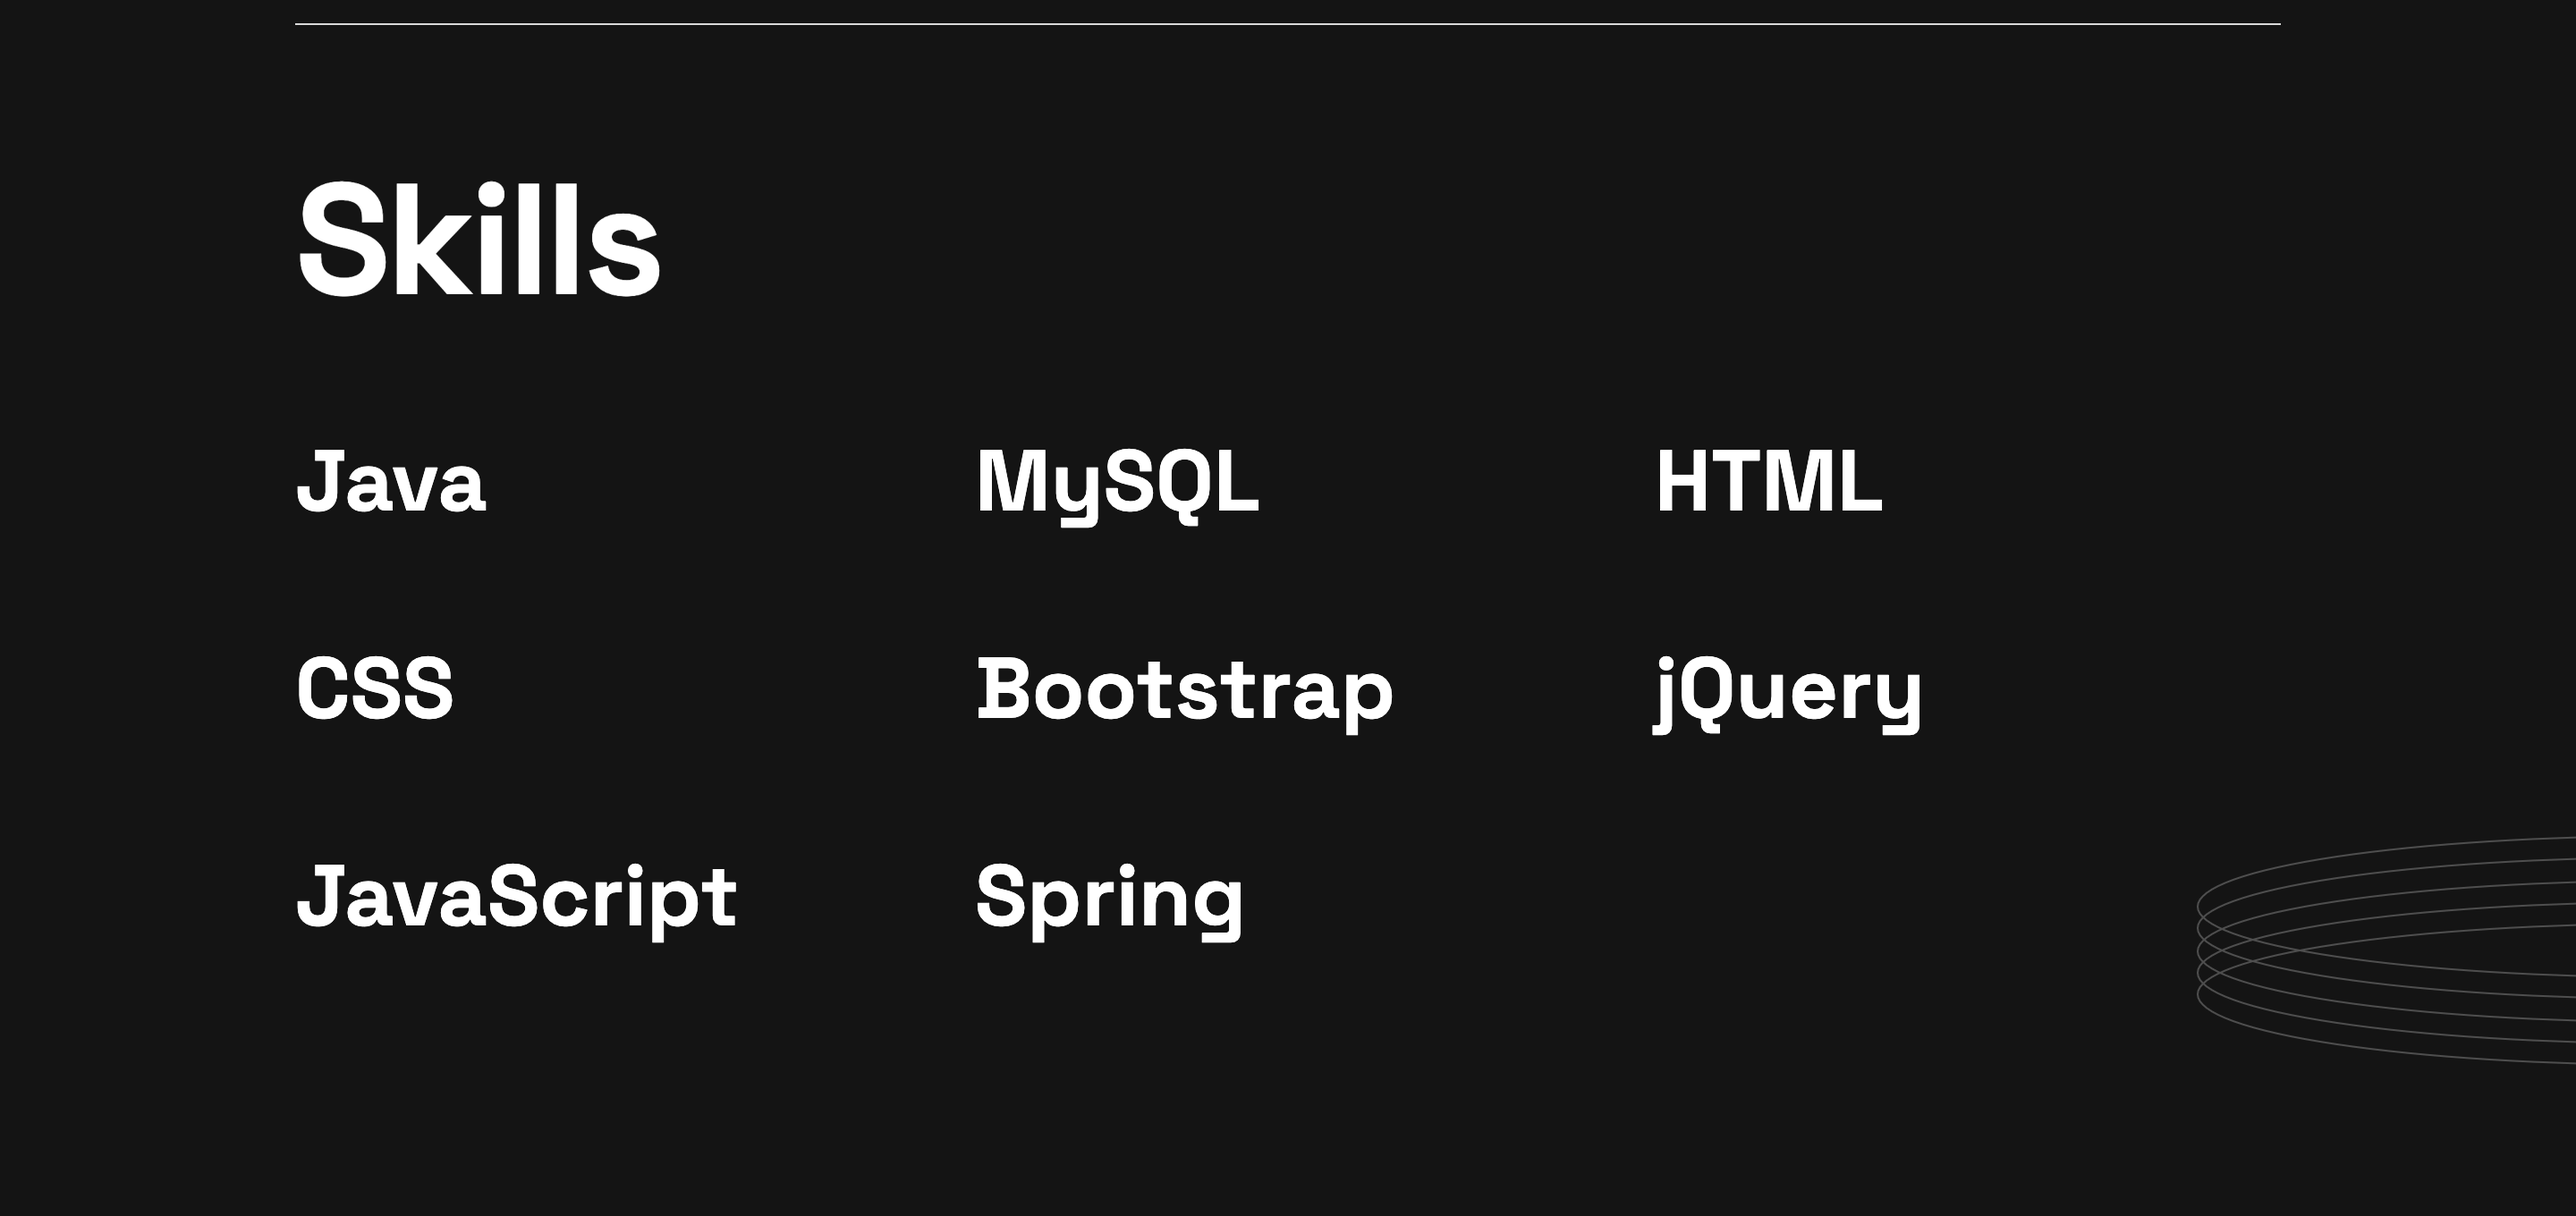
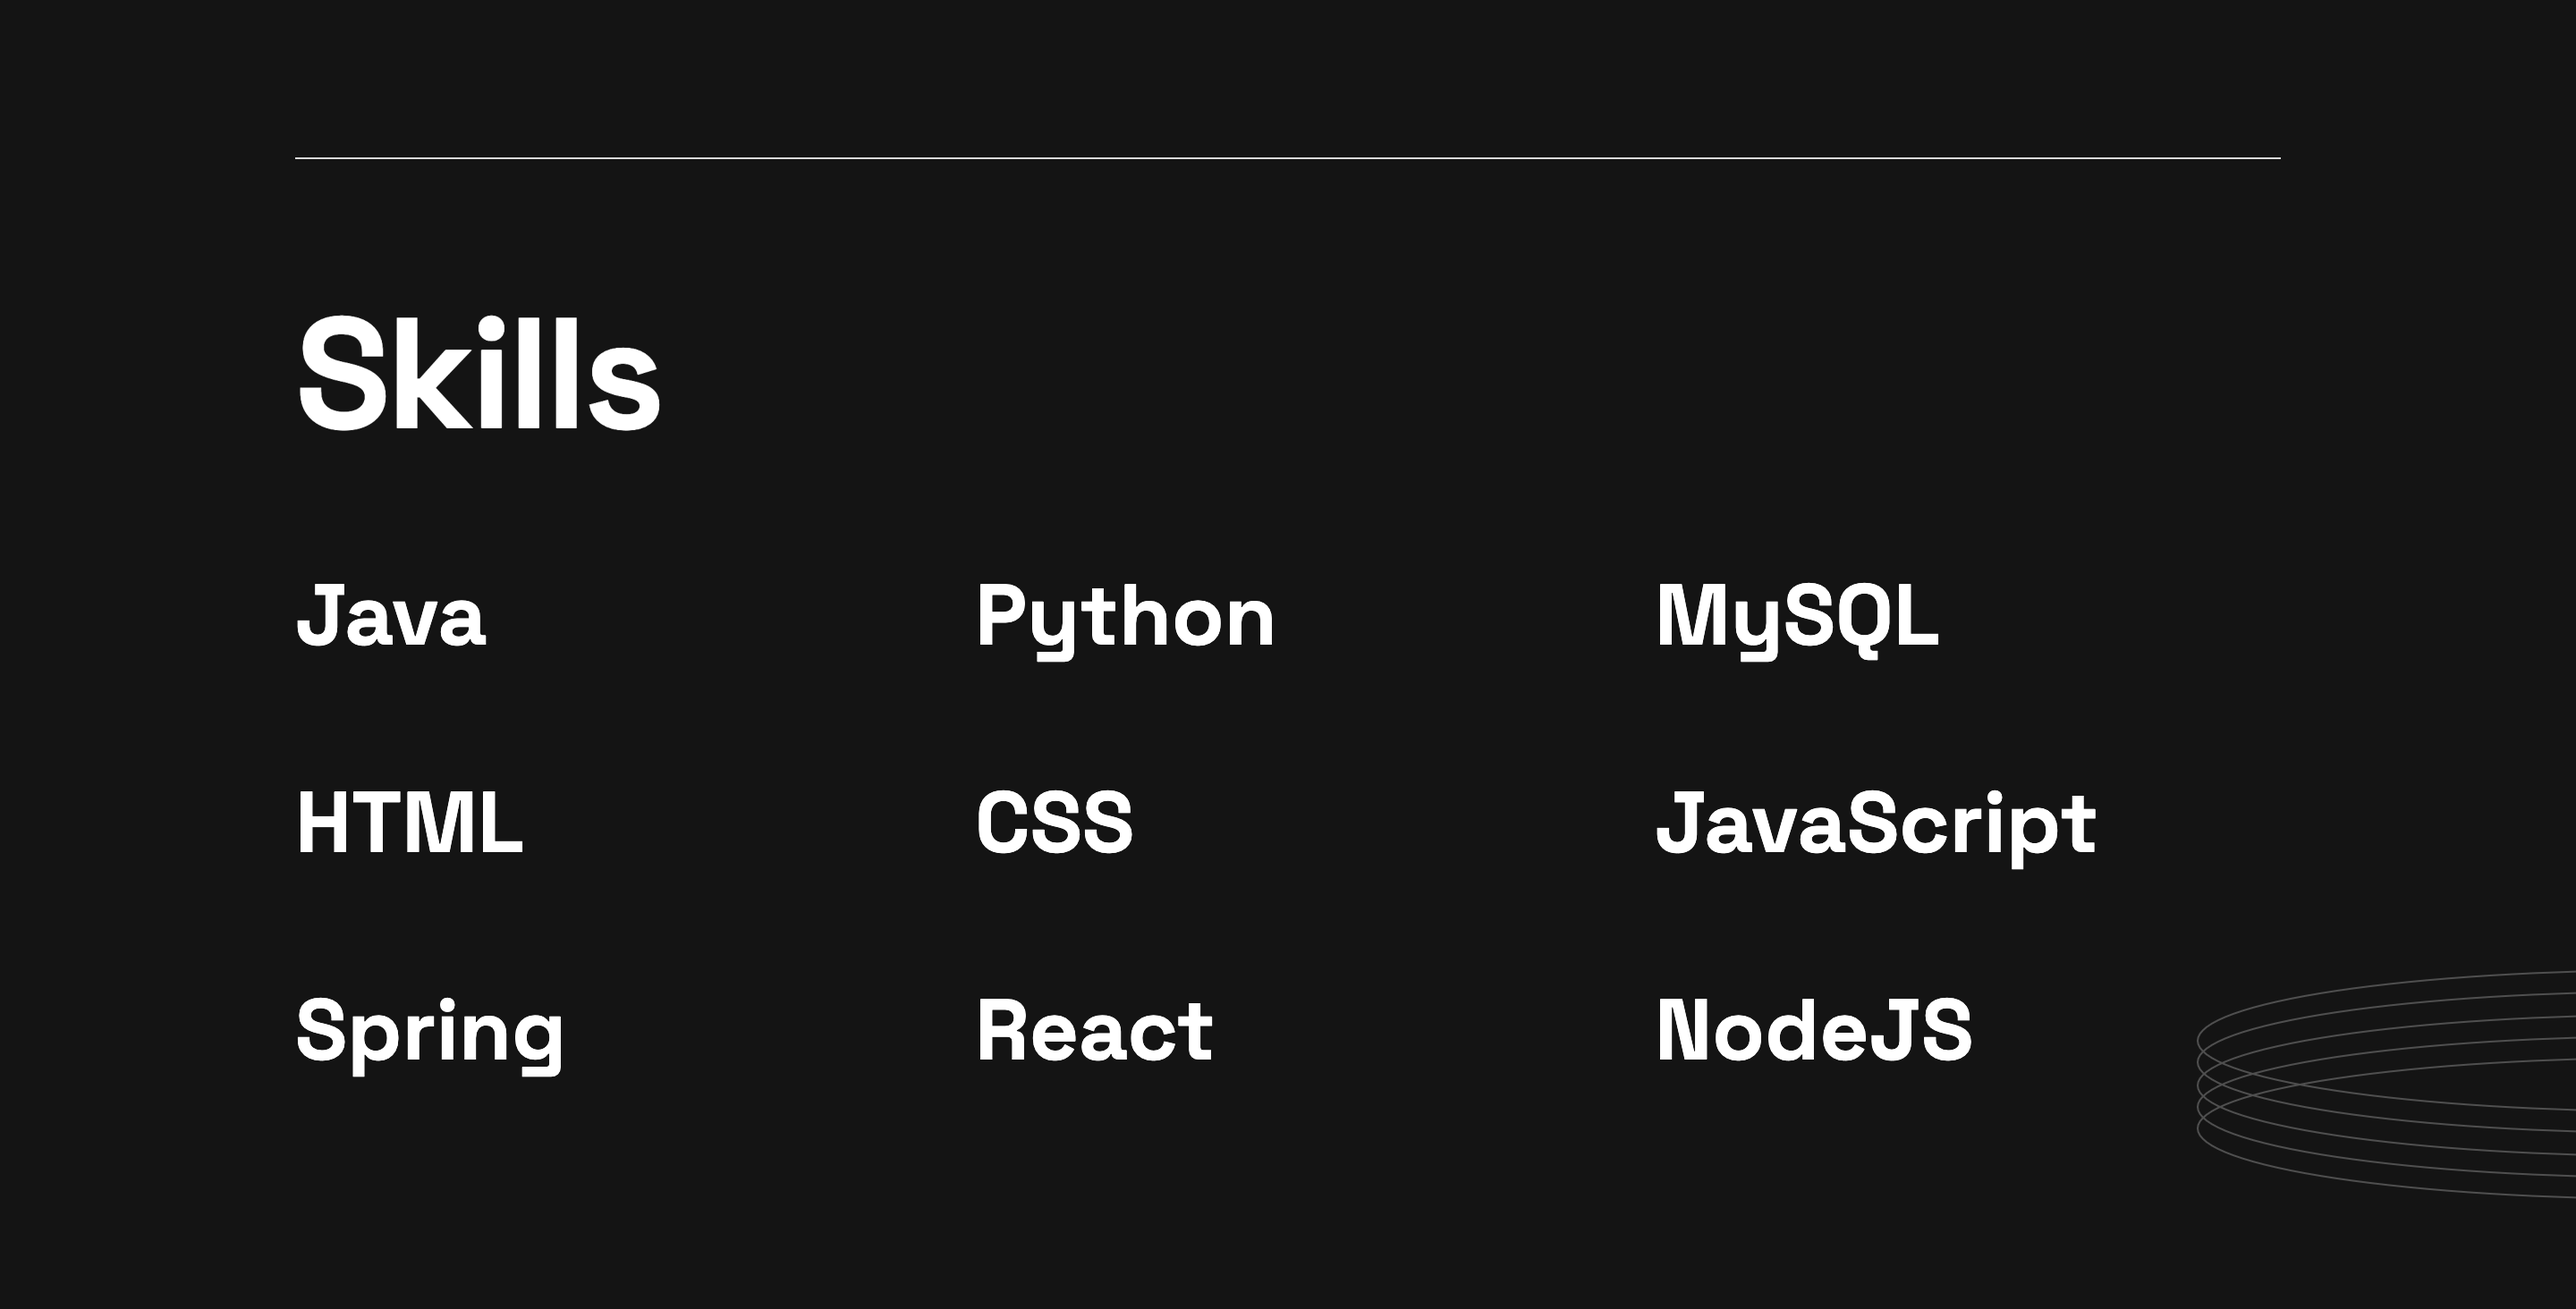
update read me

diff --git a/index.html b/index.html
@@ -137,7 +137,7 @@ created by kasunrachintha on 12/16/22
                 <!--<p class="skills_description">3 Years Experience</p>-->
             </div>
             <div class="skills_item">
-                <h3 class="skills_title">ReactJS</h3>
+                <h3 class="skills_title">NodeJS</h3>
                 <!--2023/04-->
                 <!--<p class="skills_description">3 Years Experience</p>-->
             </div>

diff --git a/README.md b/README.md
@@ -41,16 +41,22 @@
 
 # Portfolio View.
 
-profile
+### profile
 ![About!](assets/img/portfolio-ss/About.png)
 
-Skills
+### Skills
 ![Skills!](assets/img/portfolio-ss/Skills.png)
 
-Projects
-![Projects!](assets/img/portfolio-ss/Project.png)
+### Projects
+![Projects!](assets/img/portfolio-ss/Project1.png)
+![Projects!](assets/img/portfolio-ss/Project2.png)
+![Projects!](assets/img/portfolio-ss/Project3.png)
+![Projects!](assets/img/portfolio-ss/Project4.png)
 
-Contact
+### Projects with Hover Effect
+![Projects!](assets/img/portfolio-ss/ProjectAfterHover.png)
+
+### Contact
 ![Contact!](assets/img/portfolio-ss/Contact.png)
 
 
